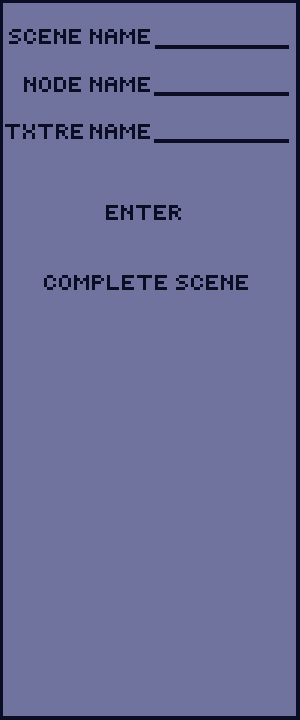
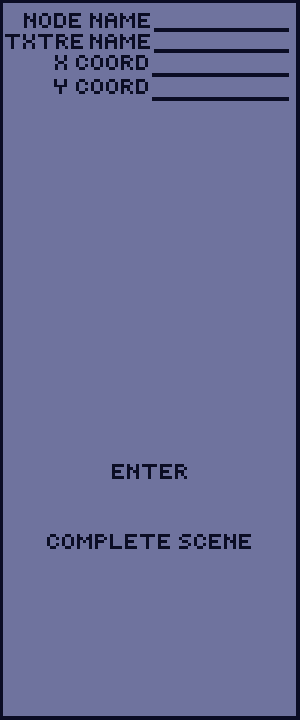
major update to level editor

diff --git a/src/examplegame.cpp b/src/examplegame.cpp
@@ -1,16 +1,22 @@
 #include "headers/AdamLib.hpp"
 
 #define MOVESPEED 5
+#define SCREENW 1280
+#define SCREENH 720
+
+
 
 struct placedObject
 {
-  SDL_FRect bounds;
+  SDL_Rect bounds;
   std::string objName;
+  std::string textureName;
   AdamTexture* texture;
 
   ~placedObject() {texture->free();}
 
 }typedef placedObject;
+
 
 std::vector<placedObject*> objVect;
 
@@ -185,34 +191,113 @@ Scene* exampleScene()
   return newScene;
 } */
 
+void saveAndExit()
+{
+  FILE* fp = fopen("../newFile.cpp", "w");
+  fprintf(fp, "#include \"src/headers/AdamLib.hpp\"\n\n\n");
+
+  //stores unique obj names
+  std::map<std::string, bool> objholder; 
+  for(auto object : objVect)
+  {
+    std::string objName = object->objName;
+    objholder[objName] = true;
+  }
+
+  //creates render and logic functions
+  for(auto object : objholder)
+  {
+    std::string str = object.first;
+    str[0] = std::toupper(object.first[0]);
+    fprintf(fp, "void render%s(BasicNode* parent){}\n", str.c_str());
+    fprintf(fp, "void logic%s(Component<BasicNode*>* host){}\n\n", str.c_str());
+    fprintf(fp, "//--------------------------------------------------\n\n");
+  }
+  fprintf(fp, "Scene* newScene()\n{\n\tScene* newScene = new Scene(0,0,1280,720);\n");
+  fprintf(fp, "\tnewScene->setCamera(0,0,1280,720);\n\n\n");
+
+
+  //initializes objects
+  int i = 1;
+  for(auto object : objVect)
+  {
+    std::string str = object->objName + std::to_string(i);
+    std::string funcName = object->objName;
+    funcName[0] = std::toupper(object->objName[0]);
+
+    fprintf(fp, "//%s\n{\n", str.c_str());
+    fprintf(fp, "\tBasicNode* %s = new BasicNode(newScene, render%s);\n", str.c_str(), funcName.c_str());
+    fprintf(fp, "\t%s->setPos(%d, %d);\n", str.c_str(), object->bounds.x, object->bounds.y);
+    fprintf(fp, "\t%s->setDim(%d, %d);\n", str.c_str(), object->bounds.w, object->bounds.h);
+    fprintf(fp, "\t%s->setTexture(\"assets/%s.png\");\n", str.c_str(), object->textureName.c_str());
+    fprintf(fp, "\t%s->addComponent(\"%s\", logic%s);\n", str.c_str(), str.c_str(), funcName.c_str());
+    fprintf(fp, "\tnewScene->sceneNodes.push_back(%s);\n", str.c_str());
+
+    fprintf(fp, "\n}\n");
+    ++i;
+  }
+
+
+  
+  fprintf(fp, "\n\n\n\treturn newScene;\n}");
+
+  for(auto object : objVect)
+  {
+    delete object;
+  }
+  objVect.clear();
+  exit(1);
+}
+
 void renderSideBar(BasicNode* parent)
 {
   parent->textureMap["main"]->render(parent->var["x"], parent->var["y"], gameWindow->renderer);
   parent->textureMap["nodeText"]->render(parent->var["ntextX"], parent->var["ntextY"], gameWindow->renderer);
   parent->textureMap["textureText"]->render(parent->var["ttextX"], parent->var["ttextY"], gameWindow->renderer);
+  parent->textureMap["xcoordText"]->render(parent->var["xtextX"], parent->var["xtextY"], gameWindow->renderer);
+  parent->textureMap["ycoordText"]->render(parent->var["ytextX"], parent->var["ytextY"], gameWindow->renderer);
 }
 
 void logicSideBar(Component<BasicNode*>* host)
 {
-  static SDL_FRect nodeHitbox = {1435, 65, 135, 25};
-  static SDL_FRect textureHitbox = {1435, 105, 135, 25};
-  static SDL_FRect enterHitbox = {1380, 200, 85, 25};
+  static SDL_Rect nodeHitbox = {155+SCREENW, 14, 134, 18};
+  static SDL_Rect textureHitbox = {155+SCREENW, 33, 134, 18};
+  static SDL_Rect xcoordHitbox = {155+SCREENW, 54, 134, 18};
+  static SDL_Rect ycoordHitbox = {155+SCREENW, 78, 134, 18};
+
+  static SDL_Rect enterHitbox = {113+SCREENW, 465, 74, 13};
+  static SDL_Rect saveHitbox = {48+SCREENW, 535, 203, 13};
 
   static std::string nodeString = " ";
   static std::string textureString = " ";
+  static std::string xcoordString = " ";
+  static std::string ycoordString = " ";
+
   static int currentString = 0;
 
-  SDL_FRect mouseRect = {mouse.x, mouse.y, 10, 10};
+  SDL_Rect mouseRect = {mouse.x, mouse.y, 10, 10};
 
   std::string wstring = "";
   bool backspace = false;
+  bool validTextInput = false;
 
 
+  //take keyboard input
   for(auto keyInput : keyboardInputs)
   {
     if(keyInput.type == SDL_TEXTINPUT)
     {
-      wstring += keyInput.text.text;
+      if(currentString != 3 && currentString != 4)
+      {
+        wstring += keyInput.text.text;
+        validTextInput = true;
+      }
+      else if(keyInput.key.keysym.sym >= SDLK_0 && keyInput.key.keysym.sym <= SDLK_9)
+      {
+        wstring += keyInput.text.text;
+        validTextInput = true;
+      }
+
       continue;
     }
 
@@ -221,43 +306,63 @@ void logicSideBar(Component<BasicNode*>* host)
       if(keyInput.key.keysym.sym == SDLK_BACKSPACE)
       {
         backspace = true;
+        validTextInput = true;
         break;
       }
-
-      
     }
 
   }
 
+  //take mouse input
   for(auto mouseInput : mouseInputs)
   {
     if(mouseInput.type == SDL_MOUSEBUTTONDOWN)
     {
-      if(SDL_HasIntersectionF(&nodeHitbox, &mouseRect))
+      if(SDL_HasIntersection(&nodeHitbox, &mouseRect))
       {
         takeTextInput = true;
         currentString = 1;
       }
-      else if(SDL_HasIntersectionF(&textureHitbox, &mouseRect))
+      else if(SDL_HasIntersection(&textureHitbox, &mouseRect))
       {
         takeTextInput = true;
         currentString = 2;
       }
-      else if(SDL_HasIntersectionF(&enterHitbox, &mouseRect))
+      else if(SDL_HasIntersection(&xcoordHitbox, &mouseRect))
+      {
+        takeTextInput = true;
+        currentString = 3;
+      }
+      else if(SDL_HasIntersection(&ycoordHitbox, &mouseRect))
+      {
+        takeTextInput = true;
+        currentString = 4;
+      }
+      
+      //load new object with proper attributes
+      else if(SDL_HasIntersection(&enterHitbox, &mouseRect))
       {
         if(nodeString.length() > 1 && textureString.length() > 1)
         {
           placedObject* newObj = new placedObject;
           newObj->texture = new AdamTexture;
-          newObj->objName = nodeString;
+          newObj->objName = nodeString.substr(1);
+          newObj->textureName = textureString.substr(1);
+        
+          int x = (xcoordString.length() > 1 ? std::stoi(xcoordString) : 100);
+          int y = (ycoordString.length() > 1 ? std::stoi(ycoordString) : 100);
 
-
-          textureString.erase(0,1);
-          newObj->texture->loadFromFile("assets/" + textureString, gameWindow->renderer);
-          newObj->bounds = {100.0f, 100.0f, (float)newObj->texture->getWidth(), (float)newObj->texture->getHeight()};
+          newObj->texture->loadFromFile("assets/" + newObj->textureName, gameWindow->renderer);
+          newObj->bounds = {x, y, newObj->texture->getWidth(), newObj->texture->getHeight()};
           objVect.push_back(newObj);
-          textureString.insert(textureString.begin(), ' ');
         }
+      }
+      
+      //save and exit if click "complete scene"
+      else if(SDL_HasIntersection(&saveHitbox, &mouseRect))
+      {
+        saveAndExit();
+        break;
       }
       else
       {
@@ -268,6 +373,10 @@ void logicSideBar(Component<BasicNode*>* host)
     }
   }
 
+  if(validTextInput == false)
+    return;
+
+  //update string textures when change is made
   switch(currentString)
   {
     case 0:
@@ -278,6 +387,7 @@ void logicSideBar(Component<BasicNode*>* host)
       else
         nodeString += wstring;
 
+      nodeString = nodeString.substr(0,12);
       host->parent->textureMap["nodeText"]->loadFromText(nodeString, {0, 0, 0, 0}, gameWindow->renderer, gameWindow->font);
       break;
     case 2:
@@ -285,8 +395,27 @@ void logicSideBar(Component<BasicNode*>* host)
         textureString.pop_back();
       else
         textureString += wstring;
-        
+      
+      textureString = textureString.substr(0,12);
       host->parent->textureMap["textureText"]->loadFromText(textureString, {0, 0, 0, 0}, gameWindow->renderer, gameWindow->font);
+      break;
+    case 3:
+      if(backspace && xcoordString.length() > 1)
+        xcoordString.pop_back();
+      else
+        xcoordString += wstring;
+      
+      xcoordString = xcoordString.substr(0,5);
+      host->parent->textureMap["xcoordText"]->loadFromText(xcoordString, {0, 0, 0, 0}, gameWindow->renderer, gameWindow->font);
+      break;
+    case 4:
+      if(backspace && ycoordString.length() > 1)
+        ycoordString.pop_back();
+      else
+       ycoordString += wstring;
+  
+      ycoordString = ycoordString.substr(0,5);
+      host->parent->textureMap["ycoordText"]->loadFromText(ycoordString, {0, 0, 0, 0}, gameWindow->renderer, gameWindow->font);
       break;
   }
 
@@ -309,10 +438,10 @@ void renderObjectPlacer(BasicNode* parent)
 
 }
 
-SDL_FRect camAdjustedBounds(SDL_FRect* rect)
+SDL_Rect camAdjustedBounds(SDL_Rect* rect)
 {
   Camera* cam = game->currentScene->camera;
-  SDL_FRect newRect;
+  SDL_Rect newRect;
   newRect.x = (rect->x - cam->cameraRect.x)*cam->scale;
   newRect.y = (rect->y - cam->cameraRect.y)*cam->scale;
   newRect.w = rect->w * cam->scale;
@@ -325,8 +454,8 @@ void logicObjectPlacer(Component<BasicNode*>* host)
 {
   Camera* cam = host->parent->parentScene->camera;
 
-  SDL_FRect mouseRect = {(mouse.x-cam->cameraRect.x), (mouse.y-cam->cameraRect.y), 1, 1};
-  static SDL_FRect* chosenRect = nullptr;
+  SDL_Rect mouseRect = {(mouse.x-cam->cameraRect.x), (mouse.y-cam->cameraRect.y), 1, 1};
+  static SDL_Rect* chosenRect = nullptr;
 
   for(auto mouseInput : mouseInputs)
   {
@@ -335,8 +464,8 @@ void logicObjectPlacer(Component<BasicNode*>* host)
       //this is probably really expensive but idc
       for(auto& rect : objVect)
       {
-        SDL_FRect tmp = camAdjustedBounds(&rect->bounds);
-        if(SDL_HasIntersectionF(&tmp, &mouseRect))
+        SDL_Rect tmp = camAdjustedBounds(&rect->bounds);
+        if(SDL_HasIntersection(&tmp, &mouseRect))
         {
           chosenRect = &rect->bounds;
           break;
@@ -390,13 +519,23 @@ Scene* exampleScene()
 
   sideBar->textureMap["nodeText"] = new AdamTexture;
   sideBar->textureMap["nodeText"]->loadFromText(" ", {0, 0, 0, 0}, gameWindow->renderer, gameWindow->font);
-  sideBar->var["ntextX"] = 1435;
-  sideBar->var["ntextY"] = 65;
+  sideBar->var["ntextX"] = 150+SCREENW;
+  sideBar->var["ntextY"] = 9;
 
   sideBar->textureMap["textureText"] = new AdamTexture;
   sideBar->textureMap["textureText"]->loadFromText(" ", {0, 0, 0, 0}, gameWindow->renderer, gameWindow->font);
-  sideBar->var["ttextX"] = 1435;
-  sideBar->var["ttextY"] = 105;
+  sideBar->var["ttextX"] = 150+SCREENW;
+  sideBar->var["ttextY"] = 29;
+
+  sideBar->textureMap["xcoordText"] = new AdamTexture;
+  sideBar->textureMap["xcoordText"]->loadFromText(" ", {0, 0, 0, 0}, gameWindow->renderer, gameWindow->font);
+  sideBar->var["xtextX"] = 150+SCREENW;
+  sideBar->var["xtextY"] = 51;
+
+  sideBar->textureMap["ycoordText"] = new AdamTexture;
+  sideBar->textureMap["ycoordText"]->loadFromText(" ", {0, 0, 0, 0}, gameWindow->renderer, gameWindow->font);
+  sideBar->var["ytextX"] = 150+SCREENW;
+  sideBar->var["ytextY"] = 75;
 
   sideBar->addComponent("sideBar", logicSideBar);
   newScene->sceneNodes.push_back(sideBar);

diff --git a/src/newFile.cpp b/src/newFile.cpp
@@ -1,0 +1,8 @@
+#include "headers/AdamLib.hpp"
+
+
+Scene* newScene
+{
+  int var;
+  return nullptr;
+}
